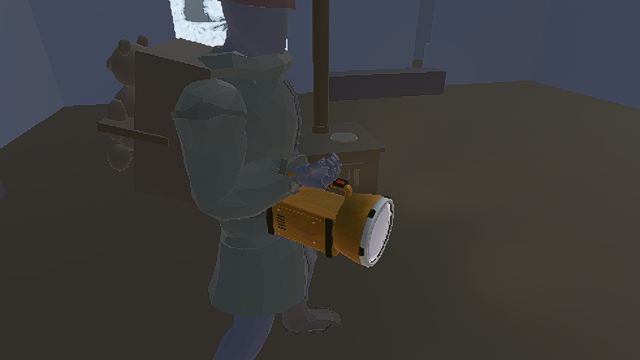
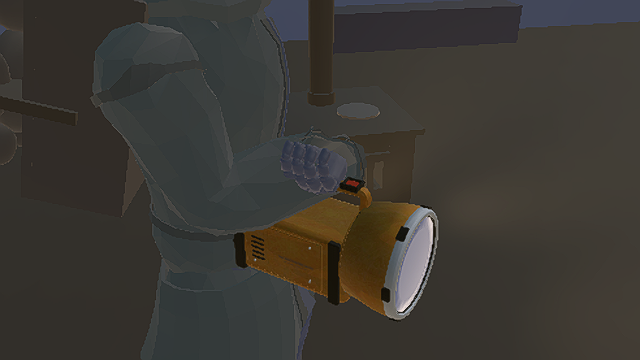
Correct NORTHBEAM right-hand grip across handle

diff --git a/docs/runtime_previews/key_west_727/searchlight/game_ready/PRODUCTION_GATE.md b/docs/runtime_previews/key_west_727/searchlight/game_ready/PRODUCTION_GATE.md
@@ -23,7 +23,10 @@ dim emissive overlays; the lamp remains the only light source. Battery life is
   and daylight captures were also reviewed.
 - Eight daylight 727 Forward+/Vulkan `grip_orbit/` captures show a continuous,
   torso-relative beam sweep within ±65°; the palm frame follows the grip
-  without the arm turning through the character's back.
+  without the arm turning through the character's back. The first orbit review
+  exposed fingers aligned along the handle, which did not form a grip. The
+  corrected captures replace those frames: fingers now cross the lengthwise
+  handle and curl around it.
 - `lens_aura.png` and `lens_divine.png` are both bound to the lens shader and
   combined for optical glow. The scene beam uses the single `SpotLight3D`.
 
